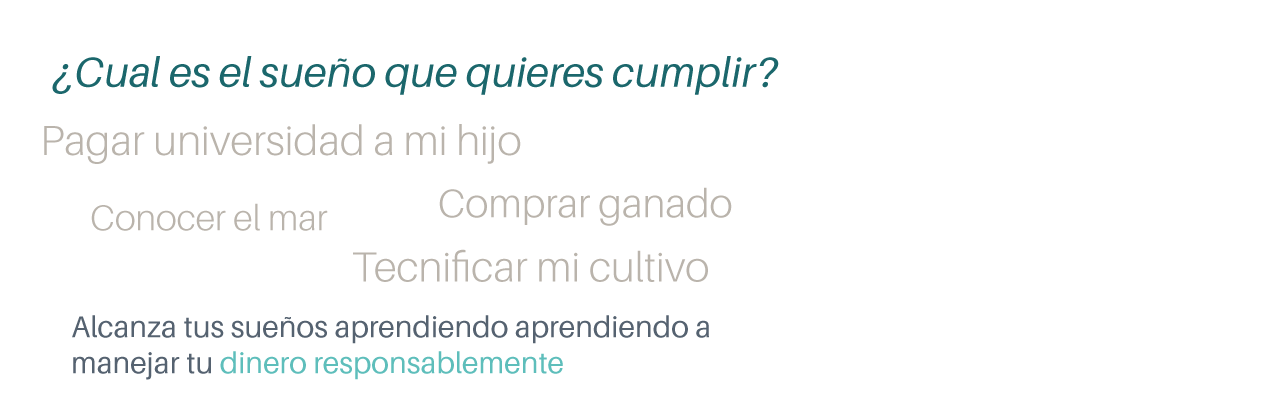
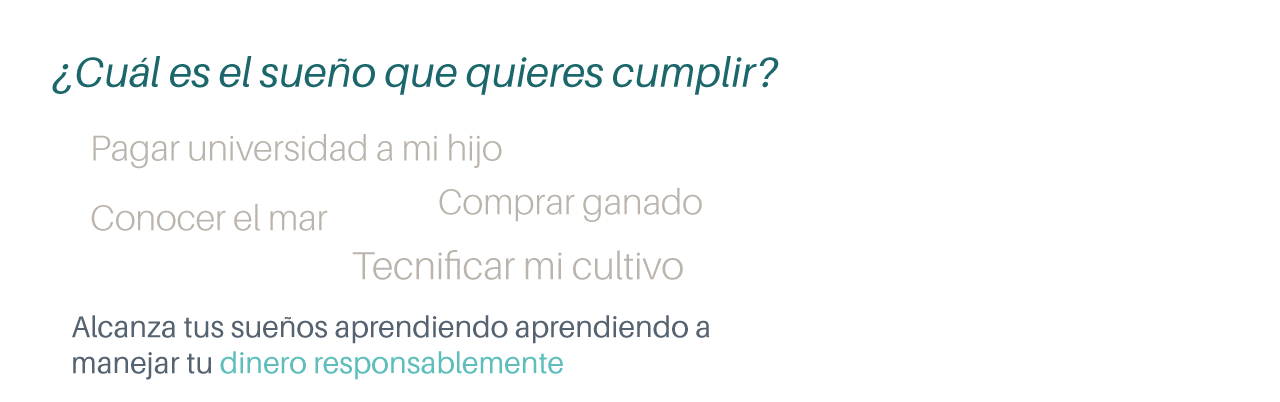
bulb images add, user-view, css

Changed region(s): [[0.0312, 0.2985, 0.4062, 0.4179], [0.2812, 0.6269, 0.5625, 0.7164], [0.3438, 0.4776, 0.5625, 0.5672]]

diff --git a/client/app/styles/main.scss b/client/app/styles/main.scss
@@ -25,7 +25,12 @@ body {
 
 /* Custom page header */
 .header {
-    background:$color-white-1;
+    position: fixed;
+    z-index: 10;
+    top: 0;
+    left: 0;
+    width: 100%;
+    background:$color-white-1;    
     border-bottom:1px solid $color-grey-1;
 
     .navbar {
@@ -58,6 +63,14 @@ body {
     padding-top:19px;
     color:#777;
     border-top:1px solid #e5e5e5;
+
+    .container {
+        margin-top: 0;
+
+        p {
+            margin: 10px;
+        }
+    }
 }
 
 .container-narrow>hr {
@@ -103,6 +116,11 @@ body {
 }
 
 /* REDI */
+
+.container {
+    margin-top: 121px;
+}
+
 .btn {
     padding:8px 15px;
     display:inline-block;
@@ -126,7 +144,7 @@ body {
 
     .cartoon-cta {
         position:absolute;
-        right:10%;
+        right:14%;
         bottom:0px;
         width:23%;
 
@@ -138,7 +156,7 @@ body {
         .btn {
             position:absolute;
             top:10%;
-            right:-15%;
+            right: -26%;
         }
     }
 }
@@ -271,5 +289,43 @@ body {
 
     .form-group {
         margin-bottom: 20px;
+    }
+}
+
+.state {
+    display: table;
+    text-align: center;
+    margin: 20px 10% 40px;
+
+    div {
+        display: table-cell;
+        vertical-align: middle;
+
+        &.left-text,
+        &.right-text {
+            width: 35%;
+        }
+
+        &.left-text {
+            text-align: right;
+        }
+
+        &.right-text {
+            text-align: left;
+        }
+
+        p {
+            color: $color-grey-1;
+            font-size: 30px;
+            font-weight: 200;
+        }
+
+        &.bulb {
+            padding: 0 2%;
+
+            img {
+                width: 80%;
+            }
+        }
     }
 }

diff --git a/client/app/views/user-view.html b/client/app/views/user-view.html
@@ -15,3 +15,16 @@
 </div>
 <canvas class="chart chart-pie" chart-data="totalData" chart-labels="totalLabels"></canvas>
 
+<div class="state">
+	<div class="left-text">
+		<p>¡Tus ingresos superan tus gastos mensuales!</p>
+	</div>
+	<div class="bulb">
+		<img src="images/green-bulb.png" />
+	<!--	<img class="bulb" src="images/red-bulb.png" />-->
+	</div>
+	<div class="right-text">
+		<p>¡Estas cada vez más cerca de cumplir tu sueño!</p>
+	</div>
+</div>
+

diff --git a/client/app/views/user-add.html b/client/app/views/user-add.html
@@ -22,7 +22,7 @@
         </div>
         <div class="step-2" ng-show="step2">
             <div class="form-group">
-                <label>Cuéntanos tu sueño</label>
+                <label>¿Cuál es el sueño que quieres cumplir?</label>
                 <input type="text" ng-model="user.goalName" placeholder="" />
             </div>
             <div class="form-group">

diff --git a/client/app/views/main.html b/client/app/views/main.html
@@ -2,7 +2,7 @@
 	<img class="back" src="images/ad.png" />
 
 	<div class="cartoon-cta">
-		<a class="btn" href="#/create/user">Registrate</a>
+		<a class="btn" href="#/create/user">Comencemos</a>
 		<img src="images/redi1.png" />
 	</div>
 </div>
